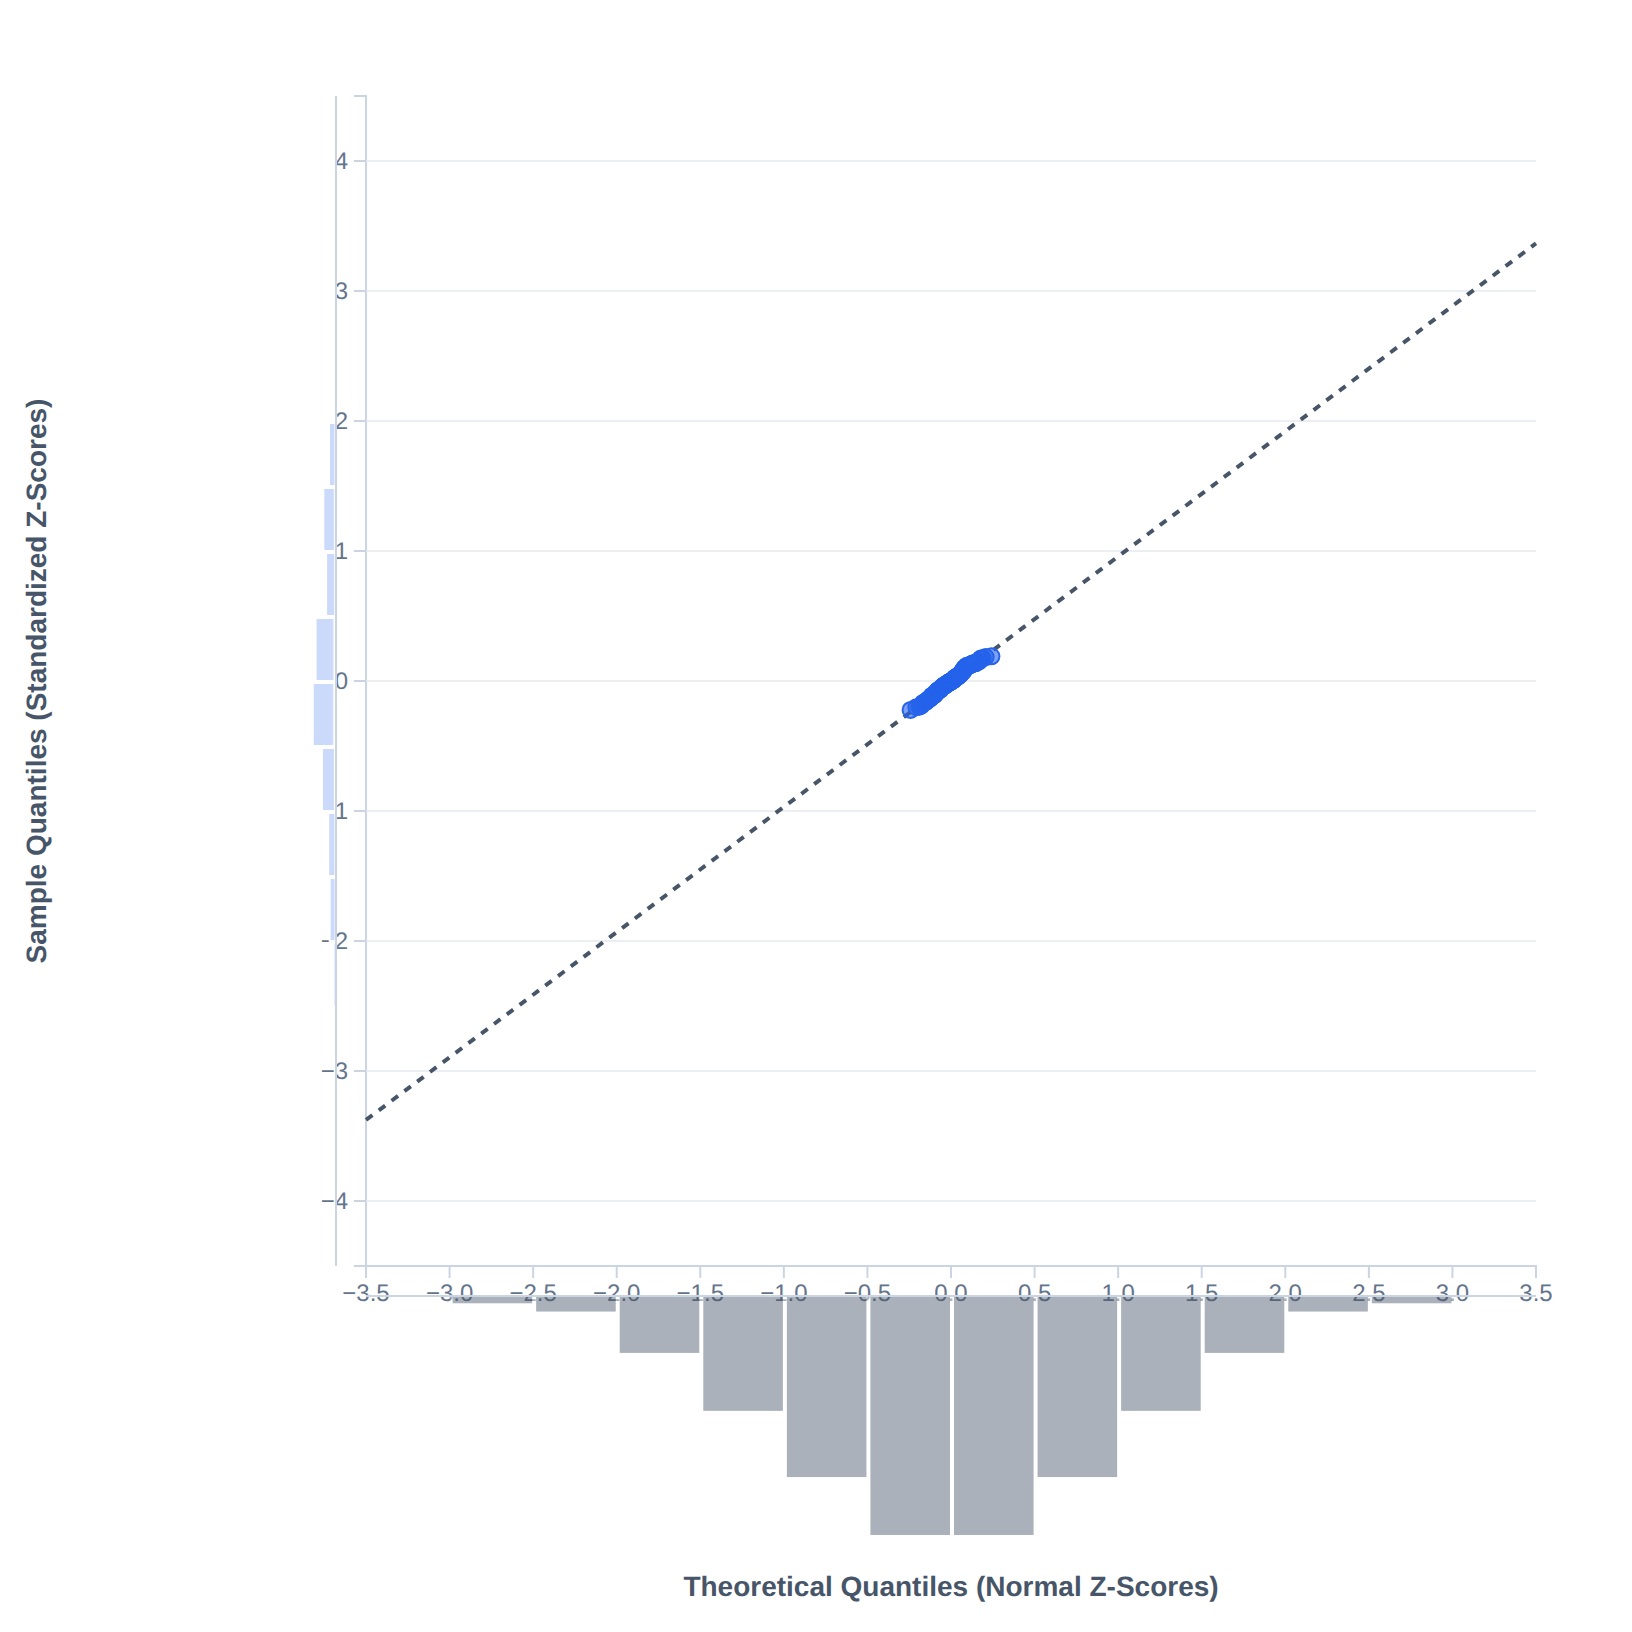
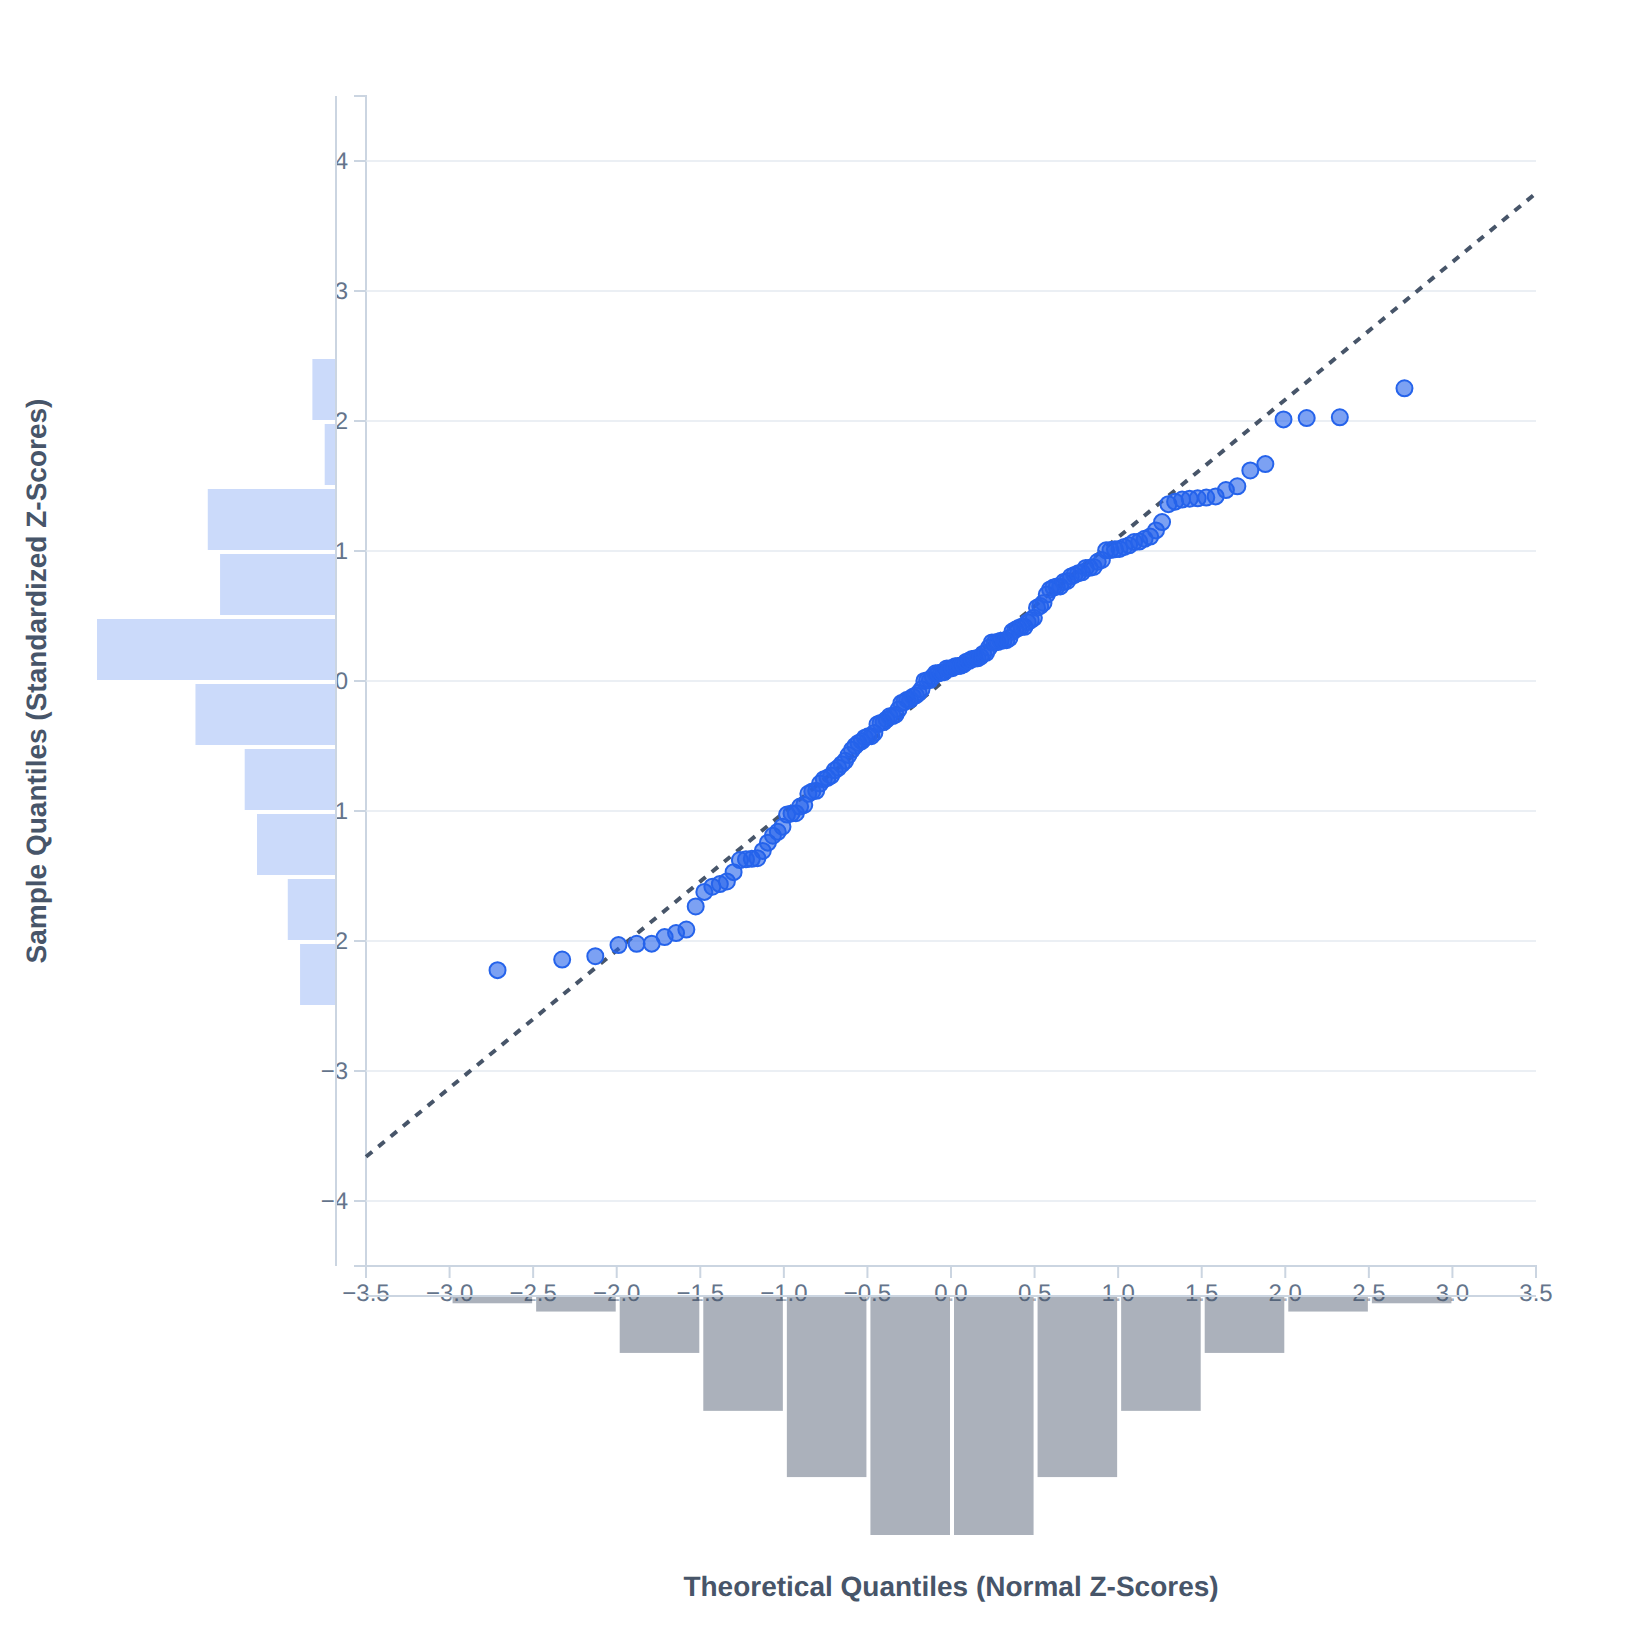
Recapture the Chapter 1 Q–Q still after its opening move
The points now lie along the reference line, matching the settled
Teach view. The other stills already match their settled starts.
The citation version stays 0.1.8.

diff --git a/CHANGELOG.md b/CHANGELOG.md
@@ -39,7 +39,7 @@ and this project adheres to [Semantic Versioning](https://semver.org/spec/v2.0.0
 
 ### Added
 
-- Chapter 1, Describing data, opens in Book mode at [`book/chapter-1.html`](book/chapter-1.html). That view is this chapter only. Other topics stay on Guided Tracks, and Home does not gain a Book button. The chapter is one scrolling document on a phone and on a wide screen. A side menu jumps to Center and spread, Shape and pictures, and Same summaries, different graphs. For each demonstration the chapter narrative and the connection note are one piece of writing. In the chapter scroll each demonstration is a still of its own figure. An expand mark sits on the still, and an arrow sits at the end of the title, so the card reads as a control. The still is the whole graph and the labels on that figure, not a connection drawing and not a cropped slice. Opening the card loads the live demonstration and fills the screen. Exit, Escape, or Back returns to the same place in the chapter. On a phone tab that refuses the browser Fullscreen API, the demonstration fills the screen in the page. Teach and Learn stay on that screen. The demo page’s longer teaching notes stay out of the frame while Teach is on, because the chapter already carries that writing. Why, Key points, Try this, Check your understanding, and Bridge are labels under the demo title, not extra headings in the outline. The section menu starts open beside the chapter on a wide screen and collapsed on a phone. On a phone a thin horizontal bar with an arrow opens or closes the section menu. On a wide screen the menu is a vertical column to the bottom of the screen, and that control is a slim vertical bar on its inner edge. On this page the top menu says Book mode. The chapter text and the cards use the same column width. The still stays in that column until the card is opened. Self-tests stay links to the existing review pages. Choosing Describing data, or one of its three sections, from Guided Tracks opens this draft. The page says “Draft preview — not published” and is marked noindex. The citation version is unchanged.
+- Chapter 1, Describing data, opens in Book mode at [`book/chapter-1.html`](book/chapter-1.html). That view is this chapter only. Other topics stay on Guided Tracks, and Home does not gain a Book button. The chapter is one scrolling document on a phone and on a wide screen. A side menu jumps to Center and spread, Shape and pictures, and Same summaries, different graphs. For each demonstration the chapter narrative and the connection note are one piece of writing. In the chapter scroll each demonstration is a still of its own figure. An expand mark sits on the still, and an arrow sits at the end of the title, so the card reads as a control. The still is the whole graph and the labels on that figure, not a connection drawing and not a cropped slice. The Q–Q still is that figure after its opening move has finished, so the points lie along the reference line. Opening the card loads the live demonstration and fills the screen. Exit, Escape, or Back returns to the same place in the chapter. On a phone tab that refuses the browser Fullscreen API, the demonstration fills the screen in the page. Teach and Learn stay on that screen. The demo page’s longer teaching notes stay out of the frame while Teach is on, because the chapter already carries that writing. Why, Key points, Try this, Check your understanding, and Bridge are labels under the demo title, not extra headings in the outline. The section menu starts open beside the chapter on a wide screen and collapsed on a phone. On a phone a thin horizontal bar with an arrow opens or closes the section menu. On a wide screen the menu is a vertical column to the bottom of the screen, and that control is a slim vertical bar on its inner edge. On this page the top menu says Book mode. The chapter text and the cards use the same column width. The still stays in that column until the card is opened. Self-tests stay links to the existing review pages. Choosing Describing data, or one of its three sections, from Guided Tracks opens this draft. The page says “Draft preview — not published” and is marked noindex. The citation version is unchanged.
 
 - The GitHub README wordmark stays readable in dark mode. `images/project-viz-wordmark-dark.svg` is the same mark with white ink on a transparent background. The README shows the black mark in the light theme and the light-ink mark in the dark theme. The homepage still uses the black mark. The citation version is unchanged.
 
